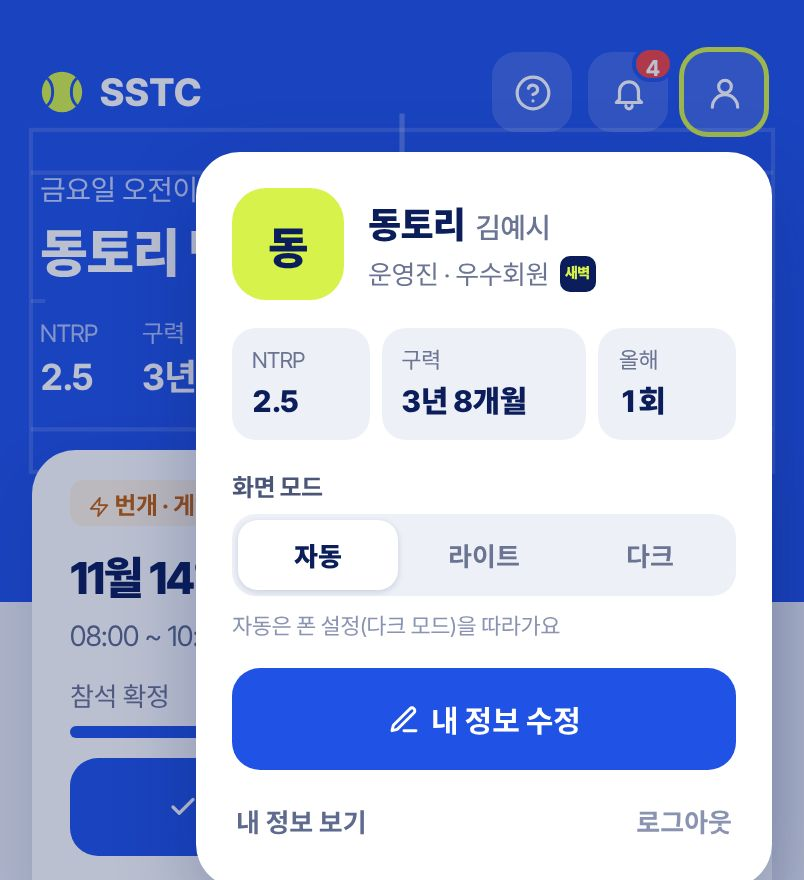
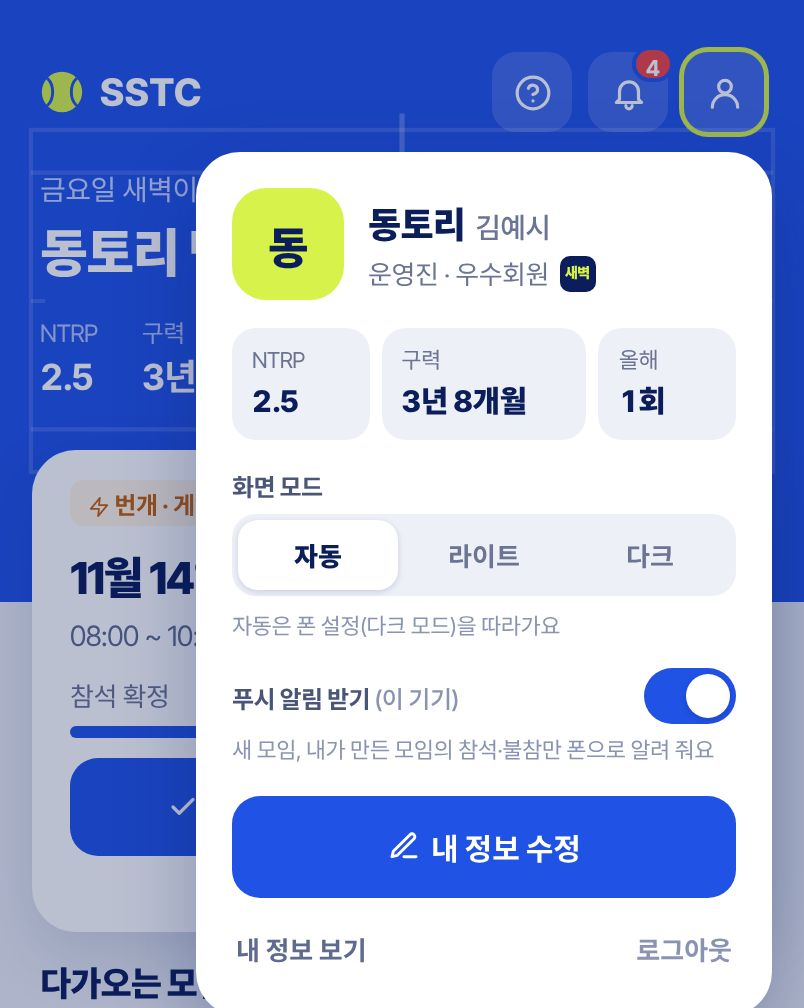
사용 안내: 푸시 알림 항목 추가 (아이폰만, 켜는 법·오는 알림 세 가지)
Claude-Session: https://claude.ai/code/session_01QoMkuW7Jf9apsEPmfcmyKN

diff --git a/index.html b/index.html
@@ -6,8 +6,8 @@
 <meta name="theme-color" content="#2152E6">
 <!-- 폰 브라우저의 "강제 다크 모드"가 색을 멋대로 뒤집지 않게 (앱이 직접 정한 색만 써요) -->
 <meta name="color-scheme" content="only light">
-<link rel="icon" type="image/png" sizes="32x32" href="icons/icon-32.png?v=d83856e702">
-<link rel="apple-touch-icon" sizes="180x180" href="icons/apple-touch-icon.png?v=d83856e702">
+<link rel="icon" type="image/png" sizes="32x32" href="icons/icon-32.png?v=270bcfd88a">
+<link rel="apple-touch-icon" sizes="180x180" href="icons/apple-touch-icon.png?v=270bcfd88a">
 <link rel="manifest" href="manifest.webmanifest">
 <link rel="preload" href="fonts/Fredoka.ttf" as="font" type="font/ttf" crossorigin>
 <meta name="apple-mobile-web-app-title" content="SSTC">
@@ -598,11 +598,11 @@ const inviteNotify=(info,id,uids)=>{const text=`${ME}님이 비공개 ${info.kin
 function PrivateLockSheet({meeting,onClose}){const info=meeting&&meeting.info||{},host=info.createdByUid,mt=isMT(meeting);const[asked,setAsked]=useState(false);return/*#__PURE__*/React.createElement("div",{onClick:onClose,style:__dk({position:"fixed",inset:0,background:"rgba(11,30,91,0.55)",zIndex:70,display:"flex",alignItems:"center",justifyContent:"center",padding:24,boxSizing:"border-box"})},/*#__PURE__*/React.createElement("div",{role:"dialog","aria-label":"\uBE44\uACF5\uAC1C \uBAA8\uC784",onClick:e=>e.stopPropagation(),style:__dk({width:"100%",maxWidth:360,background:"#fff",borderRadius:26,padding:"24px 20px 18px",textAlign:"center",fontFamily:FONT,boxShadow:"0 24px 60px rgba(11,30,91,0.35)"})},/*#__PURE__*/React.createElement("span",{style:__dk({width:60,height:60,borderRadius:18,background:INK,display:"inline-flex",alignItems:"center",justifyContent:"center"})},/*#__PURE__*/React.createElement(Icon,{name:"lock",size:28,color:BALL,stroke:2.2})),/*#__PURE__*/React.createElement("p",{style:__dk({margin:"14px 0 0",fontSize:19,fontWeight:900,color:INK})},"\uBE44\uACF5\uAC1C ",mt?"엠티":"번개","\uB77C \uBCFC \uC218 \uC5C6\uC5B4\uC694"),host&&/*#__PURE__*/React.createElement("div",{style:__dk({marginTop:12,display:"inline-flex",alignItems:"center",gap:8,background:"#F4F6FB",borderRadius:12,padding:"7px 12px 7px 7px"})},/*#__PURE__*/React.createElement(Avatar,{name:nickOf(host),photo:photoOf(host),size:28,radius:8,zoom:false}),/*#__PURE__*/React.createElement("span",{style:__dk({fontSize:14,fontWeight:700,color:INK})},nickOf(host)),/*#__PURE__*/React.createElement("span",{style:__dk({fontSize:12,color:"#6B7493"})},"\uB2D8\uC774 \uC5F0 \uBAA8\uC784")),/*#__PURE__*/React.createElement("p",{style:__dk({margin:"12px 0 0",fontSize:13.5,color:"#5E6A8E",lineHeight:1.65,wordBreak:"keep-all"})},"\uC774 \uBAA8\uC784\uC740 ",/*#__PURE__*/React.createElement("b",{style:__dk({color:INK})},"\uCD08\uB300\uBC1B\uC740 \uD68C\uC6D0"),"\uB9CC \uBCFC \uC218 \uC788\uC5B4\uC694.",/*#__PURE__*/React.createElement("br",null),"\uAC19\uC774 \uAC00\uACE0 \uC2F6\uC73C\uBA74 \uB9CC\uB4E0 \uC0AC\uB78C\uC5D0\uAC8C \uCD08\uB300\uB97C \uBD80\uD0C1\uD574 \uBCF4\uC138\uC694."),/*#__PURE__*/React.createElement("button",{type:"button",onClick:()=>{if(host&&myUid())postFeed({type:"meeting",meetingId:meeting.id,to:host,text:`${ME}님이 비공개 ${mt?"엠티":"번개"}(${shortDay(info.date)} ${info.place||""})에 초대를 부탁했어요. 모임에서 '초대 추가'로 넣을 수 있어요.`});setAsked(true);},disabled:asked,style:__dk({...btnPrimary,marginTop:16,opacity:asked?0.55:1})},asked?"초대 부탁을 보냈어요":"초대 부탁하기"),/*#__PURE__*/React.createElement("button",{type:"button",onClick:onClose,style:__dk({...btnGhostLock,marginTop:8})},"\uB2EB\uAE30")));}function GuildLockSheet({meeting,onClose}){const gs=meetGuilds(meeting&&meeting.info),g=gs[0],names=gs.map(x=>x.name).join("·");return/*#__PURE__*/React.createElement("div",{onClick:onClose,style:__dk({position:"fixed",inset:0,background:"rgba(11,30,91,0.55)",zIndex:70,display:"flex",alignItems:"center",justifyContent:"center",padding:24,boxSizing:"border-box"})},/*#__PURE__*/React.createElement("div",{role:"dialog","aria-label":"\uAE38\uB4DC \uBAA8\uC784",onClick:e=>e.stopPropagation(),style:__dk({width:"100%",maxWidth:360,background:"#fff",borderRadius:26,padding:"24px 20px 18px",textAlign:"center",fontFamily:FONT,boxShadow:"0 24px 60px rgba(11,30,91,0.35)"})},/*#__PURE__*/React.createElement("span",{style:__dk({width:60,height:60,borderRadius:18,background:BALL,display:"inline-flex",alignItems:"center",justifyContent:"center"})},/*#__PURE__*/React.createElement(Icon,{name:"lock",size:28,color:INK,stroke:2.2})),/*#__PURE__*/React.createElement("p",{style:__dk({margin:"14px 0 0",fontSize:19,fontWeight:900,color:INK})},"\uAE38\uB4DC \uBAA8\uC784\uC774\uB77C \uBCFC \uC218 \uC5C6\uC5B4\uC694"),gs.length>0&&/*#__PURE__*/React.createElement("div",{style:__dk({marginTop:12,display:"flex",flexDirection:"column",alignItems:"center",gap:8})},gs.map(x=>/*#__PURE__*/React.createElement(GuildTag,{key:x.id,g:x,size:30,font:16}))),/*#__PURE__*/React.createElement("p",{style:__dk({margin:"12px 0 0",fontSize:13.5,color:"#5E6A8E",lineHeight:1.65,wordBreak:"keep-all"})},"\uC774 \uBAA8\uC784\uC740 ",/*#__PURE__*/React.createElement("b",{style:__dk({color:INK})},g?names:"어느")," \uAE38\uB4DC\uC6D0\uB9CC \uBCFC \uC218 \uC788\uC5B4\uC694.",g&&/*#__PURE__*/React.createElement(React.Fragment,null,/*#__PURE__*/React.createElement("br",null),"\uAE38\uB4DC\uC5D0 \uAC00\uC785 \uC2E0\uCCAD\uD558\uBA74 ",gs.length>1?"길드장이":/*#__PURE__*/React.createElement(React.Fragment,null,"\uAE38\uB4DC\uC7A5 ",/*#__PURE__*/React.createElement("b",{style:__dk({color:INK})},nickOf(g.leader))," \uB2D8\uC774")," \uD655\uC778\uD574\uC694.")),gs.length===1&&/*#__PURE__*/React.createElement(GuildLockApply,{g:g,wide:true}),gs.length>1&&/*#__PURE__*/React.createElement("div",{style:__dk({marginTop:14,display:"flex",flexDirection:"column",gap:6,textAlign:"left"})},gs.map(x=>/*#__PURE__*/React.createElement("div",{key:x.id,style:__dk({display:"flex",alignItems:"center",gap:8,background:"#F4F6FB",borderRadius:12,padding:"8px 9px"})},/*#__PURE__*/React.createElement("span",{style:__dk({flex:1,minWidth:0})},/*#__PURE__*/React.createElement(GuildTag,{g:x,size:22,font:13.5})),/*#__PURE__*/React.createElement(GuildLockApply,{g:x})))),/*#__PURE__*/React.createElement("button",{type:"button",onClick:onClose,style:__dk({...(g?btnGhostLock:btnPrimary),marginTop:g?8:18})},g?"닫기":"확인")));}// ─── 새 버전 안내 ───────────────────────────────────────────────────────────────
 // 빌드할 때 BUILD_ID가 바뀌고 version.json에도 같이 써져요. 앱을 열 때와 다시 화면에 돌아올 때 version.json을 확인해서
 // 지금 열린 버전과 다르면 위쪽에 "새 버전이 있어요" 안내를 띄워요. (홈 화면에 추가한 앱은 새로고침 버튼이 없어서 필요)
-const BUILD_ID="d83856e702";function useNewVersion(){const[fresh,setFresh]=useState(false);useEffect(()=>{if(BUILD_ID==="dev"||typeof fetch==="undefined"||location.protocol==="file:")return;let last=0;const check=()=>{if(document.visibilityState==="hidden"||Date.now()-last<60000)return;last=Date.now();fetch("version.json?t="+Date.now(),{cache:"no-store"}).then(r=>r.ok?r.json():null).then(v=>{if(v&&v.build&&v.build!==BUILD_ID)setFresh(true);}).catch(()=>{});};check();document.addEventListener("visibilitychange",check);window.addEventListener("focus",check);return()=>{document.removeEventListener("visibilitychange",check);window.removeEventListener("focus",check);};},[]);return fresh;}// 업데이트: 주소에 ?v=를 바꿔 붙여서 저장된 예전 페이지 대신 새로 받아 오게 해요 (#meeting- 같은 주소 뒷부분은 유지)
+const BUILD_ID="270bcfd88a";function useNewVersion(){const[fresh,setFresh]=useState(false);useEffect(()=>{if(BUILD_ID==="dev"||typeof fetch==="undefined"||location.protocol==="file:")return;let last=0;const check=()=>{if(document.visibilityState==="hidden"||Date.now()-last<60000)return;last=Date.now();fetch("version.json?t="+Date.now(),{cache:"no-store"}).then(r=>r.ok?r.json():null).then(v=>{if(v&&v.build&&v.build!==BUILD_ID)setFresh(true);}).catch(()=>{});};check();document.addEventListener("visibilitychange",check);window.addEventListener("focus",check);return()=>{document.removeEventListener("visibilitychange",check);window.removeEventListener("focus",check);};},[]);return fresh;}// 업데이트: 주소에 ?v=를 바꿔 붙여서 저장된 예전 페이지 대신 새로 받아 오게 해요 (#meeting- 같은 주소 뒷부분은 유지)
 const reloadFresh=()=>{try{const u=new URL(location.href);u.searchParams.set("v",String(Date.now()));location.replace(u.toString());}catch(e){location.reload();}};function UpdateBanner(){const fresh=useNewVersion();const[hide,setHide]=useState(false);if(!fresh||hide)return null;return/*#__PURE__*/React.createElement("div",{role:"status",style:__dk({position:"fixed",top:"calc(10px + env(safe-area-inset-top,0px))",left:"50%",transform:"translateX(-50%)",width:"calc(100% - 24px)",maxWidth:416,zIndex:60,background:"#0B1E5B",color:"#fff",borderRadius:18,boxShadow:"0 10px 28px rgba(11,30,91,0.35)",padding:"12px 12px 12px 16px",display:"flex",alignItems:"center",gap:10,boxSizing:"border-box",fontFamily:FONT})},/*#__PURE__*/React.createElement("div",{style:__dk({flex:1,minWidth:0})},/*#__PURE__*/React.createElement("p",{style:__dk({margin:0,fontSize:14,fontWeight:700})},"\uC0C8 \uBC84\uC804\uC774 \uC788\uC5B4\uC694"),/*#__PURE__*/React.createElement("p",{style:__dk({margin:"2px 0 0",fontSize:12,opacity:0.8,lineHeight:1.4})},"\uC5C5\uB370\uC774\uD2B8\uB97C \uB20C\uB7EC \uC8FC\uC138\uC694. \uADF8\uB798\uB3C4 \uADF8\uB300\uB85C\uBA74 \uC571\uC744 \uC644\uC804\uD788 \uAED0\uB2E4\uAC00 \uB2E4\uC2DC \uC5F4\uC5B4 \uC8FC\uC138\uC694.")),/*#__PURE__*/React.createElement("button",{type:"button",onClick:reloadFresh,style:__dk({padding:"9px 14px",background:"#D7F24A",color:"#0B1E5B",border:"none",borderRadius:12,fontSize:13,fontWeight:700,cursor:"pointer",whiteSpace:"nowrap",fontFamily:FONT})},"\uC5C5\uB370\uC774\uD2B8"),/*#__PURE__*/React.createElement("button",{type:"button",onClick:()=>setHide(true),"aria-label":"\uC548\uB0B4 \uB2EB\uAE30",style:__dk({background:"none",border:"none",color:"#fff",opacity:0.7,padding:4,cursor:"pointer",display:"flex"})},/*#__PURE__*/React.createElement(Icon,{name:"x",size:16})));}// ─── 사용 안내 (우측 상단 물음표) ─────────────────────────────────────────────
 // 기능마다 실제 앱 화면을 잘라 둔 그림(help/<이름>.jpg)에 노란 테두리 + 번호, 아래엔 번호별 한 줄 설명.
 // marks: 그림 안 위치 [x, y, 너비, 높이] (그림 크기에 대한 %). 그림은 tools/help-shots 로 다시 찍을 수 있어요.
-/*HELP_DATA_START*/const HELP_VER="b27ae248";const HELP=[{"id":"home","title":"홈 화면","icon":"home","sub":"앱을 열면 처음 보이는 화면","go":"home","tip":"참석 예정 모임이 없으면 '모임 둘러보기'를 눌러 예약 탭으로 가요","blocks":[{"img":"home-1","w":402,"h":250,"marks":[[73.4,10.8,18.6,9.2],[8,65.2,84.1,22],[8,48.4,84.1,10.4]],"caps":["내가 참석할 가장 가까운 모임 (대기 중이면 주황)","여기서 바로 참석 · 불참","참석 인원 / 정원"]},{"img":"home-2","w":402,"h":197,"marks":[[3.2,23.4,46.3,70.1],[77.8,60.4,15.3,13.2],[79.4,5.6,16.4,13.7]],"caps":["옆으로 밀어서 다음 모임 보기","내 상태: ✓ 참석 예정 · 대기 n번 · 참석 가능","전체보기를 누르면 예약 탭으로"]},{"img":"home-3","w":402,"h":150,"marks":[[7.7,32,84.6,32.7]],"caps":["운영진 공지 · 누르면 펼쳐 보기 (중요 공지는 맨 위)"]}]},{"id":"booking","title":"모임 예약","icon":"calendar","sub":"모임 찾기, 새 모임, 새 댓글","go":"booking","tip":"달력 점 색: 정기 파랑 · 번개 게임 주황 · 번개 훈련 초록 · 엠티 보라","blocks":[{"img":"booking-1","w":402,"h":409,"marks":[[81.4,49.4,14.4,11.5],[59.2,8.8,35.8,9.5]],"caps":["점 찍힌 날을 누르면 그날 모임","목록 / 지도로 보기"]},{"img":"booking-2","w":402,"h":259,"marks":[[6.7,18.5,86.6,27],[64,7.3,29.3,13.5],[3.2,53.3,93.5,43.2]],"caps":["새 댓글 달린 모임 · 누르면 그 모임으로","새 댓글 표시 한꺼번에 지우기","오늘 새로 올라온 모임 (자정에 사라져요)"]},{"img":"booking-3","w":402,"h":323,"marks":[[4.2,4,91.5,14.2],[42.1,0.3,10.6,-14.1],[17.7,66.9,37,9]],"caps":["번개 / 정기 / 엠티 바꾸기 (꽉 차면 '대기 n')","새로 올라온 모임은 NEW","비공개 번개: 초대받은 회원만 보여요 (+ 새 모임은 아래 '모임 만들기')"]}]},{"id":"newmeet","title":"모임 만들기","icon":"plus","sub":"정기 · 번개 · 엠티, 공개 범위","go":"booking","tip":"코트비는 관리자가 등록한 코트면 날짜·시간에 맞춰 자동으로 채워져요","blocks":[{"img":"newmeet-1","w":402,"h":466,"marks":[[3.7,4.5,92,95.3],[3.7,27.8,92.5,10.3],[3.7,67.4,92.5,15.9]],"caps":["정기 · 번개 · 엠티 고르기","번개는 게임 / 훈련","초대한 회원만 → 비공개 번개 (고른 회원만 보고 참석)"]}]},{"id":"detail","title":"모임 상세","icon":"list","sub":"참석, 공유, 캘린더, 댓글은 여기서","tip":"정기 모임은 이번 달 참석이 적은 회원이 먼저 확정돼요","blocks":[{"img":"detail-1","w":402,"h":570,"marks":[[4.2,1.6,91.5,8.1],[10.9,61.6,78.1,8.4],[7.7,84,84.6,9.6]],"caps":["모임 정보 / 대진표 탭","코트비 · 1인 금액은 자동","참석 · 불참 (꽉 차면 대기 신청)"]},{"img":"detail-2","w":402,"h":343,"marks":[[7.7,2.6,84.6,46.9],[65.2,54.5,23.9,9.6],[3.2,82.8,39.6,14.6],[43.3,82.8,39.6,14.6]],"caps":["늦게 오거나 일찍 가면 체크","게스트 데려오기","단톡방에 공유","내 캘린더에 넣기 (아래 그림)"]},{"img":"detail-3","w":402,"h":511,"marks":[[18.2,24.3,74.1,5.4],[70.2,50.1,22.1,6.8],[3.2,88.4,93.5,9.8]],"caps":["@닉네임으로 부르면 알림","단톡에서 온다는 회원 대신 넣기","비 오면 무산 처리 (삭제 아님)"]},{"img":"detail-4","w":402,"h":377,"marks":[[3.7,36.8,92.5,20.2],[3.7,57.5,92.5,20.2]],"caps":["안드로이드: 삼성 캘린더 등 기본 캘린더에 추가","아이폰: 기본 캘린더에 추가 (뜨는 창에서 '추가')"]}]},{"id":"mt","title":"엠티 · 카풀","icon":"users","sub":"1박 이상 모임과 같이 타고 가기","tip":"엠티는 참석 횟수·랭킹에 세지 않아요","blocks":[{"img":"mt-1","w":402,"h":509,"marks":[[4.2,3.7,26,6.1],[10.9,75,78.1,8.6],[7.7,86.2,84.6,13.6]],"caps":["엠티 · 몇 박인지","시작 ~ 끝 날짜와 시간","인원은 게스트 포함 한 칸"]},{"img":"mt-2","w":402,"h":275,"marks":[[68.2,7.6,24,8.4],[7.7,227.2,84.6,-127.6],[7.7,72.4,84.6,27.3]],"caps":["차 몇 대 · 남은 자리","운전하는 차 (출발 위치·시간) · 누르면 타기 / 내리기","차가 필요하면 '태워 주세요'"]}]},{"id":"bracket","title":"대진표 · 스코어","icon":"ball","sub":"게임 편성과 점수 기록","tip":"6점 선승 · 5:5 무승부 · 참가자만 만들 수 있어요","blocks":[{"img":"bracket-1","w":402,"h":438,"marks":[[4.2,16.2,91.5,9.4],[7.7,63.7,84.6,24.2],[7.7,89.3,84.6,8.7]],"caps":["자동 편성 / 직접 작성","게임당 시간 고르기","코트 수 → 아래 '대진표 만들기'"]}]},{"id":"members","title":"회원","icon":"users","sub":"회원 찾기와 내 통계","go":"members","tip":"회원 사진을 누르면 크게 보여요","blocks":[{"img":"members-1","w":402,"h":342,"marks":[[5.2,13.7,89.6,12.9],[14.2,33.9,78.1,8.2],[4.2,47.1,91.5,10.8],[21.1,81.6,71.1,14.6]],"caps":["회원 목록 / 길드 / 통계","닉네임 · 본명 · 동네로 찾기","정렬 바꾸기","누르면 자세히 (손 · 코트 · 갈 모임)"]},{"img":"members-2","w":402,"h":444,"marks":[[4.2,11.9,16.1,19.6],[7.7,66.7,84.6,7]],"caps":["내 누적 참석과 최근 6개월","나와 평균 비교 (이번 달 나 · 회원 평균)"]},{"img":"members-3","w":402,"h":501,"marks":[[62.7,2.2,28.8,7],[7.7,73.3,84.6,9],[7.7,83.4,84.6,11.2]],"caps":["참여 랭킹: 이번 달 / 전체 (끝난 모임만 세요)","5위 아래는 더보기","내 순위 · 아래엔 코트별 통계"]}]},{"id":"guild","title":"길드","icon":"shield","sub":"마음 맞는 회원끼리 작은 모임","go":"guild","tip":"길드는 우수회원이 만들 수 있어요. 여러 길드에 들어가도 돼요","blocks":[{"img":"guild-1","w":402,"h":554,"marks":[[8,39,84.1,20.1],[16.9,67.1,26.5,16.6],[3.2,88.1,93.5,10.3]],"caps":["받은 초대 수락 · 거절 (아래 회원 탭 위에도 말풍선)","내 길드 · 누르면 길드원 · 모임 · 게시판","우수회원은 길드를 만들 수 있어요"]},{"img":"guild-2","w":402,"h":75,"marks":[[39.1,47.3,24.5,37.3]],"caps":["길드 모임은 그 길드원만 보고 참석해요"]}]},{"id":"diary","title":"훈련일기","icon":"book","sub":"잘된 점 · 고칠 점, 문제 칩, 자세 사진, 좋아요, 누적 리뷰","go":"diary","tip":"나만 보기로 쓴 일기는 나만 볼 수 있어요 (관리자도 못 봐요)","blocks":[{"img":"diary-1","w":402,"h":593,"marks":[[49.8,12.8,22.8,7.4],[4.2,22.3,31.4,6.6],[4.2,57,14.4,7.9],[3.2,88.9,93.5,9.6]],"caps":["회원 탭 → 훈련일기","모두의 일기 / 내 일기만","점 찍힌 날을 누르면 그날 일기 (공 색 점은 내 일기)","오늘 일기 쓰기 (지난 날은 달력에서 날짜를 눌러서)"]},{"img":"diary-2","w":402,"h":633,"marks":[[8.2,1.7,83.6,12],[8,21,84.1,78.8],[8.2,103.9,83.6,-4.1]],"caps":["레슨 · 게임 · 랠리 · 혼자 연습","잘된 점 · 고칠 점은 글로 편하게","지금 내 자세와 참고 자세 사진을 나란히"]},{"img":"diary-2b","w":402,"h":317,"marks":[[11.2,59.9,62.7,12],[50.1,83.9,16.8,12]],"caps":["내가 만든 칩을 눌러 붙여요 (숫자는 지금까지 붙인 횟수)","+ 새 칩: 기술(선택)과 문제를 직접 써서 만들어요 · 회원들이 쓰는 비슷한 칩도 보여 줘요"]},{"img":"diary-2c","w":402,"h":393,"marks":[[11.2,0.3,77.6,99.5],[13.9,42.5,72.1,12.2],[13.9,54.7,72.1,18.8]],"caps":["기술은 골라도 되고 안 골라도 돼요 (목록에 없으면 + 직접)","문제는 짧게 직접 써요 (12자까지)","회원들이 쓰는 비슷한 칩 · 누르면 같은 이름으로 써요 (같은 문제를 같은 이름으로 모아야 잘 세어져요)"]},{"img":"diary-3","w":402,"h":161,"marks":[[8.2,26.4,84.6,73],[3.7,0.6,92.5,98.8]],"caps":["전체 공개 / 나만 보기","코멘트를 받을지 (달리면 알림)"]},{"img":"diary-4","w":402,"h":270,"marks":[[7.7,4.1,42,82.7],[50.2,4.1,42,82.7]],"caps":["지금 내 자세 · 누르면 크게 보여요 (올릴 때 용량은 알아서 줄여요)","따라 할 참고 자세"]},{"img":"diary-4b","w":402,"h":188,"marks":[[7.7,46.9,84.6,17],[7.7,72.9,21.9,21.3],[82.3,72.9,10,21.3]],"caps":["붙인 문제 칩","좋아요 (다시 누르면 취소)","링크 복사 · 카톡 등으로 공유 (전체 공개 일기만)"]},{"img":"diary-4c","w":402,"h":250,"marks":[[18.2,19.2,74.1,37],[18.2,58.6,74.1,37]],"caps":["회원들이 남긴 조언","@닉네임으로 부르면 알림"]},{"img":"diary-5","w":402,"h":280,"marks":[[50.2,79.8,41.8,16.1],[8,79.8,41.8,16.1]],"caps":["쓴 고칠 점을 날짜순으로 모아 보기","누적 리뷰: 일기를 쓸 때마다 쌓여요"]},{"img":"diary-6","w":402,"h":428,"marks":[[3.2,2.6,36.9,11],[3.2,15,93.5,18.7],[3.2,61.6,93.5,35.9]],"caps":["전체 누적 / 월별 (월별은 지난달과 비교)","나에게 한마디 (리뷰 맨 아래에서 써요)","가장 많이 나온 문제 · 코멘트에서 많이 들은 말"]},{"img":"diary-6b","w":402,"h":423,"marks":[[7.7,15.2,84.6,7.1],[7.7,63.2,84.6,7.1]],"caps":["3번 이상 붙인 칩만 ‘반복’으로 보여 줘요 (한두 번은 접어 둬요)","회원들이 코멘트에서 많이 해 준 말 · 누르면 그 일기만"]},{"img":"diary-7","w":402,"h":314,"marks":[[20.1,22.5,72.1,22.4],[20.1,45.6,72.1,51]],"caps":["내가 쓴 고칠 점 (최근 순)","그 일기에 받은 코멘트가 바로 아래 쌓여요"]}]},{"id":"board","title":"소곤소곤","icon":"message","sub":"익명으로도 쓰는 게시판","go":"board","tip":"내 글은 고치거나 지울 수 있어요","blocks":[{"img":"board-1","w":402,"h":512,"marks":[[82.8,6.4,12.9,10.2],[14.2,20.7,78.1,5.5],[4.2,29.5,63.5,7.6],[3.2,43.8,93.5,24.5],[7.2,60.6,17.8,4.5]],"caps":["새 글 쓰기 (익명으로도)","글 내용으로 찾기","전체 · 내 글 · 익명 골라 보기","익명 글은 알림에도 이름이 안 남아요","내 글에 새 댓글 (아래 탭 위 말풍선에도 떠요)"]}]},{"id":"noti","title":"알림","icon":"bell","sub":"종 버튼에 모이는 소식","tip":"아래 탭의 빨간 +숫자는 그 탭에 새로 올라온 것이에요","blocks":[{"img":"noti-1","w":402,"h":406,"marks":[[3.7,15.6,92.5,22.6],[3.7,38.6,92.5,17.6],[3.7,56.7,92.5,22.6]],"caps":["내 모임에 누가 참석했을 때","내 글에 댓글이 달렸을 때","댓글에서 @로 불렸을 때 · 누르면 그 모임 · 글로"]}]},{"id":"me","title":"내 정보","icon":"user","sub":"사진, NTRP, 구력, 닉네임, 화면 모드","tip":"화면 모드는 이 폰에만 저장돼요. 닉네임은 한글 1~10자, 중복 확인 후 바꿀 수 있어요","blocks":[{"img":"me-1","w":402,"h":440,"marks":[[0.2,0.2,99.5,99.5],[28.1,75.2,64.2,13],[77.9,89.1,14.4,8.4]],"caps":["화면 모드: 자동(폰 설정) · 라이트 · 다크","사진 · NTRP · 구력 · 동네 고치기","로그아웃"]}]},{"id":"app","title":"앱처럼 쓰기","icon":"phone","sub":"홈 화면에 추가와 업데이트","tip":"'새 버전이 있어요'가 뜨면 업데이트를 누르고, 그래도 그대로면 앱을 완전히 껐다 켜 주세요","blocks":[],"tabs":[{"key":"ios-chrome","label":"크롬","blocks":[{"img":"app-chrome-1","w":600,"h":287,"marks":[[76.7,9.1,6.7,15.5]],"caps":["주소창 오른쪽 공유 버튼 누르기"]},{"img":"app-chrome-2","w":600,"h":554,"marks":[[74.1,63.3,17.4,25.5]],"caps":["'더 보기' 누르기"]},{"img":"app-chrome-3","w":600,"h":646,"marks":[[4.1,63.6,92,12.1]],"caps":["'홈 화면에 추가' 누르기"]},{"img":"app-chrome-4","w":600,"h":450,"marks":[[80,4.9,16.5,15.9]],"caps":["오른쪽 위 '추가' 누르면 끝"]}],"os":"ios"},{"key":"ios-safari","label":"사파리","blocks":[{"img":"app-safari-1","w":600,"h":404,"marks":[[22.4,71.3,12.2,15.2]],"caps":["주소창 왼쪽 ☰ 버튼 누르기"]},{"img":"app-safari-2","w":600,"h":372,"marks":[[26.1,29.5,52.2,17]],"caps":["'공유' 누르기"]},{"img":"app-safari-3","w":600,"h":404,"marks":[[4.1,76.6,92,19.4]],"caps":["'홈 화면에 추가' 누르기 (안 보이면 '더 보기')"]},{"img":"app-safari-4","w":600,"h":450,"marks":[[80,4.9,16.5,15.9]],"caps":["오른쪽 위 '추가' 누르면 끝"]}],"os":"ios"},{"key":"and-chrome","os":"android","label":"크롬","blocks":[{"img":"app-and-chrome-1","w":600,"h":358,"marks":[[88.3,1.8,8.1,16.4]],"caps":["오른쪽 위 ⋮ 누르기"]},{"img":"app-and-chrome-2","w":600,"h":585,"marks":[[30.9,39.4,63.9,10.6]],"caps":["'설치 및 바로가기 만들기' 누르기"]},{"img":"app-and-chrome-3","w":600,"h":338,"marks":[[6,30.4,88.1,29.6]],"caps":["'설치' 누르기"]},{"img":"app-and-chrome-4","w":600,"h":377,"marks":[[75.8,74.1,14.1,14.7]],"caps":["앱 설치 창에서 '설치' 누르기"]},{"img":"app-and-chrome-5","w":600,"h":292,"marks":[[34.1,22.7,31.4,24.4]],"caps":["'SSTC 설치 중…'이 뜨면 끝, 홈 화면에 아이콘이 생겨요"]}]},{"key":"and-samsung","os":"android","label":"삼성 인터넷(기본)","blocks":[{"img":"app-and-samsung-1","w":600,"h":377,"marks":[[79.1,3.4,7.6,12.4]],"caps":["주소창 오른쪽 ↓ 버튼 누르기"]},{"img":"app-and-samsung-2","w":600,"h":253,"marks":[[50.9,60.3,40.1,28.2]],"caps":["'추가' 누르기"]},{"img":"app-and-samsung-3","w":600,"h":221,"marks":[[16.3,42.6,67.7,35.3]],"caps":["'앱스에 추가했어요'가 뜨면 끝"]}]}]},{"id":"admin","title":"관리자 기능","icon":"gear","sub":"관리자에게만 보여요","go":"admin","admin":true,"tip":"홈의 '관리자 모드' 버튼으로 회원 화면을 확인할 수 있어요","blocks":[{"img":"admin-1","w":402,"h":722,"marks":[[4.2,10.2,91.5,12],[7.7,57.2,84.6,11.1],[7.7,67.5,84.6,11.1],[7.7,88,84.6,11.1]],"caps":["새 가입자 승인","앱 열 때 뜨는 안내 창","정회원 · 우수회원 · 탈퇴 관리","길드 관리 (아래에 코트비 · 홈 배너)"]}]}];/*HELP_DATA_END*/const helpImg=n=>`help/${n}.jpg?v=${HELP_VER}`;// 공유 링크: #help (목록) 또는 #help-<기능> 으로 열면 로그인 후 그 안내를 바로 열어요
+/*HELP_DATA_START*/const HELP_VER="6f78235b";const HELP=[{"id":"home","title":"홈 화면","icon":"home","sub":"앱을 열면 처음 보이는 화면","go":"home","tip":"참석 예정 모임이 없으면 '모임 둘러보기'를 눌러 예약 탭으로 가요","blocks":[{"img":"home-1","w":402,"h":250,"marks":[[73.4,10.8,18.6,9.2],[8,65.2,84.1,22],[8,48.4,84.1,10.4]],"caps":["내가 참석할 가장 가까운 모임 (대기 중이면 주황)","여기서 바로 참석 · 불참","참석 인원 / 정원"]},{"img":"home-2","w":402,"h":197,"marks":[[3.2,23.4,46.3,70.1],[77.8,60.4,15.3,13.2],[79.4,5.6,16.4,13.7]],"caps":["옆으로 밀어서 다음 모임 보기","내 상태: ✓ 참석 예정 · 대기 n번 · 참석 가능","전체보기를 누르면 예약 탭으로"]},{"img":"home-3","w":402,"h":150,"marks":[[7.7,32,84.6,32.7]],"caps":["운영진 공지 · 누르면 펼쳐 보기 (중요 공지는 맨 위)"]}]},{"id":"booking","title":"모임 예약","icon":"calendar","sub":"모임 찾기, 새 모임, 새 댓글","go":"booking","tip":"달력 점 색: 정기 파랑 · 번개 게임 주황 · 번개 훈련 초록 · 엠티 보라","blocks":[{"img":"booking-1","w":402,"h":409,"marks":[[81.4,49.4,14.4,11.5],[59.2,8.8,35.8,9.5]],"caps":["점 찍힌 날을 누르면 그날 모임","목록 / 지도로 보기"]},{"img":"booking-2","w":402,"h":259,"marks":[[6.7,18.5,86.6,27],[64,7.3,29.3,13.5],[3.2,53.3,93.5,43.2]],"caps":["새 댓글 달린 모임 · 누르면 그 모임으로","새 댓글 표시 한꺼번에 지우기","오늘 새로 올라온 모임 (자정에 사라져요)"]},{"img":"booking-3","w":402,"h":323,"marks":[[4.2,4,91.5,14.2],[42.1,0.3,10.6,-14.1],[17.7,66.9,37,9]],"caps":["번개 / 정기 / 엠티 바꾸기 (꽉 차면 '대기 n')","새로 올라온 모임은 NEW","비공개 번개: 초대받은 회원만 보여요 (+ 새 모임은 아래 '모임 만들기')"]}]},{"id":"newmeet","title":"모임 만들기","icon":"plus","sub":"정기 · 번개 · 엠티, 공개 범위","go":"booking","tip":"코트비는 관리자가 등록한 코트면 날짜·시간에 맞춰 자동으로 채워져요","blocks":[{"img":"newmeet-1","w":402,"h":466,"marks":[[3.7,4.5,92,95.3],[3.7,27.8,92.5,10.3],[3.7,67.4,92.5,15.9]],"caps":["정기 · 번개 · 엠티 고르기","번개는 게임 / 훈련","초대한 회원만 → 비공개 번개 (고른 회원만 보고 참석)"]}]},{"id":"detail","title":"모임 상세","icon":"list","sub":"참석, 공유, 캘린더, 댓글은 여기서","tip":"정기 모임은 이번 달 참석이 적은 회원이 먼저 확정돼요","blocks":[{"img":"detail-1","w":402,"h":570,"marks":[[4.2,1.6,91.5,8.1],[10.9,61.6,78.1,8.4],[7.7,84,84.6,9.6]],"caps":["모임 정보 / 대진표 탭","코트비 · 1인 금액은 자동","참석 · 불참 (꽉 차면 대기 신청)"]},{"img":"detail-2","w":402,"h":343,"marks":[[7.7,2.6,84.6,46.9],[65.2,54.5,23.9,9.6],[3.2,82.8,39.6,14.6],[43.3,82.8,39.6,14.6]],"caps":["늦게 오거나 일찍 가면 체크","게스트 데려오기","단톡방에 공유","내 캘린더에 넣기 (아래 그림)"]},{"img":"detail-3","w":402,"h":511,"marks":[[18.2,24.3,74.1,5.4],[70.2,50.1,22.1,6.8],[3.2,88.4,93.5,9.8]],"caps":["@닉네임으로 부르면 알림","단톡에서 온다는 회원 대신 넣기","비 오면 무산 처리 (삭제 아님)"]},{"img":"detail-4","w":402,"h":377,"marks":[[3.7,36.8,92.5,20.2],[3.7,57.5,92.5,20.2]],"caps":["안드로이드: 삼성 캘린더 등 기본 캘린더에 추가","아이폰: 기본 캘린더에 추가 (뜨는 창에서 '추가')"]}]},{"id":"mt","title":"엠티 · 카풀","icon":"users","sub":"1박 이상 모임과 같이 타고 가기","tip":"엠티는 참석 횟수·랭킹에 세지 않아요","blocks":[{"img":"mt-1","w":402,"h":509,"marks":[[4.2,3.7,26,6.1],[10.9,75,78.1,8.6],[7.7,86.2,84.6,13.6]],"caps":["엠티 · 몇 박인지","시작 ~ 끝 날짜와 시간","인원은 게스트 포함 한 칸"]},{"img":"mt-2","w":402,"h":275,"marks":[[68.2,7.6,24,8.4],[7.7,227.2,84.6,-127.6],[7.7,72.4,84.6,27.3]],"caps":["차 몇 대 · 남은 자리","운전하는 차 (출발 위치·시간) · 누르면 타기 / 내리기","차가 필요하면 '태워 주세요'"]}]},{"id":"bracket","title":"대진표 · 스코어","icon":"ball","sub":"게임 편성과 점수 기록","tip":"6점 선승 · 5:5 무승부 · 참가자만 만들 수 있어요","blocks":[{"img":"bracket-1","w":402,"h":438,"marks":[[4.2,16.2,91.5,9.4],[7.7,63.7,84.6,24.2],[7.7,89.3,84.6,8.7]],"caps":["자동 편성 / 직접 작성","게임당 시간 고르기","코트 수 → 아래 '대진표 만들기'"]}]},{"id":"members","title":"회원","icon":"users","sub":"회원 찾기와 내 통계","go":"members","tip":"회원 사진을 누르면 크게 보여요","blocks":[{"img":"members-1","w":402,"h":342,"marks":[[5.2,13.7,89.6,12.9],[14.2,33.9,78.1,8.2],[4.2,47.1,91.5,10.8],[21.1,81.6,71.1,14.6]],"caps":["회원 목록 / 길드 / 통계","닉네임 · 본명 · 동네로 찾기","정렬 바꾸기","누르면 자세히 (손 · 코트 · 갈 모임)"]},{"img":"members-2","w":402,"h":444,"marks":[[4.2,11.9,16.1,19.6],[7.7,66.7,84.6,7]],"caps":["내 누적 참석과 최근 6개월","나와 평균 비교 (이번 달 나 · 회원 평균)"]},{"img":"members-3","w":402,"h":501,"marks":[[62.7,2.2,28.8,7],[7.7,73.3,84.6,9],[7.7,83.4,84.6,11.2]],"caps":["참여 랭킹: 이번 달 / 전체 (끝난 모임만 세요)","5위 아래는 더보기","내 순위 · 아래엔 코트별 통계"]}]},{"id":"guild","title":"길드","icon":"shield","sub":"마음 맞는 회원끼리 작은 모임","go":"guild","tip":"길드는 우수회원이 만들 수 있어요. 여러 길드에 들어가도 돼요","blocks":[{"img":"guild-1","w":402,"h":554,"marks":[[8,39,84.1,20.1],[16.9,67.1,26.5,16.6],[3.2,88.1,93.5,10.3]],"caps":["받은 초대 수락 · 거절 (아래 회원 탭 위에도 말풍선)","내 길드 · 누르면 길드원 · 모임 · 게시판","우수회원은 길드를 만들 수 있어요"]},{"img":"guild-2","w":402,"h":75,"marks":[[39.1,47.3,24.5,37.3]],"caps":["길드 모임은 그 길드원만 보고 참석해요"]}]},{"id":"diary","title":"훈련일기","icon":"book","sub":"잘된 점 · 고칠 점, 문제 칩, 자세 사진, 좋아요, 누적 리뷰","go":"diary","tip":"나만 보기로 쓴 일기는 나만 볼 수 있어요 (관리자도 못 봐요)","blocks":[{"img":"diary-1","w":402,"h":593,"marks":[[49.8,12.8,22.8,7.4],[4.2,22.3,31.4,6.6],[4.2,57,14.4,7.9],[3.2,88.9,93.5,9.6]],"caps":["회원 탭 → 훈련일기","모두의 일기 / 내 일기만","점 찍힌 날을 누르면 그날 일기 (공 색 점은 내 일기)","오늘 일기 쓰기 (지난 날은 달력에서 날짜를 눌러서)"]},{"img":"diary-2","w":402,"h":633,"marks":[[8.2,1.7,83.6,12],[8,21,84.1,78.8],[8.2,103.9,83.6,-4.1]],"caps":["레슨 · 게임 · 랠리 · 혼자 연습","잘된 점 · 고칠 점은 글로 편하게","지금 내 자세와 참고 자세 사진을 나란히"]},{"img":"diary-2b","w":402,"h":317,"marks":[[11.2,59.9,62.7,12],[50.1,83.9,16.8,12]],"caps":["내가 만든 칩을 눌러 붙여요 (숫자는 지금까지 붙인 횟수)","+ 새 칩: 기술(선택)과 문제를 직접 써서 만들어요 · 회원들이 쓰는 비슷한 칩도 보여 줘요"]},{"img":"diary-2c","w":402,"h":393,"marks":[[11.2,0.3,77.6,99.5],[13.9,42.5,72.1,12.2],[13.9,54.7,72.1,18.8]],"caps":["기술은 골라도 되고 안 골라도 돼요 (목록에 없으면 + 직접)","문제는 짧게 직접 써요 (12자까지)","회원들이 쓰는 비슷한 칩 · 누르면 같은 이름으로 써요 (같은 문제를 같은 이름으로 모아야 잘 세어져요)"]},{"img":"diary-3","w":402,"h":161,"marks":[[8.2,26.4,84.6,73],[3.7,0.6,92.5,98.8]],"caps":["전체 공개 / 나만 보기","코멘트를 받을지 (달리면 알림)"]},{"img":"diary-4","w":402,"h":270,"marks":[[7.7,4.1,42,82.7],[50.2,4.1,42,82.7]],"caps":["지금 내 자세 · 누르면 크게 보여요 (올릴 때 용량은 알아서 줄여요)","따라 할 참고 자세"]},{"img":"diary-4b","w":402,"h":188,"marks":[[7.7,46.9,84.6,17],[7.7,72.9,21.9,21.3],[82.3,72.9,10,21.3]],"caps":["붙인 문제 칩","좋아요 (다시 누르면 취소)","링크 복사 · 카톡 등으로 공유 (전체 공개 일기만)"]},{"img":"diary-4c","w":402,"h":250,"marks":[[18.2,19.2,74.1,37],[18.2,58.6,74.1,37]],"caps":["회원들이 남긴 조언","@닉네임으로 부르면 알림"]},{"img":"diary-5","w":402,"h":280,"marks":[[50.2,79.8,41.8,16.1],[8,79.8,41.8,16.1]],"caps":["쓴 고칠 점을 날짜순으로 모아 보기","누적 리뷰: 일기를 쓸 때마다 쌓여요"]},{"img":"diary-6","w":402,"h":428,"marks":[[3.2,2.6,36.9,11],[3.2,15,93.5,18.7],[3.2,61.6,93.5,35.9]],"caps":["전체 누적 / 월별 (월별은 지난달과 비교)","나에게 한마디 (리뷰 맨 아래에서 써요)","가장 많이 나온 문제 · 코멘트에서 많이 들은 말"]},{"img":"diary-6b","w":402,"h":423,"marks":[[7.7,15.2,84.6,7.1],[7.7,63.2,84.6,7.1]],"caps":["3번 이상 붙인 칩만 ‘반복’으로 보여 줘요 (한두 번은 접어 둬요)","회원들이 코멘트에서 많이 해 준 말 · 누르면 그 일기만"]},{"img":"diary-7","w":402,"h":314,"marks":[[20.1,22.5,72.1,22.4],[20.1,45.6,72.1,51]],"caps":["내가 쓴 고칠 점 (최근 순)","그 일기에 받은 코멘트가 바로 아래 쌓여요"]}]},{"id":"board","title":"소곤소곤","icon":"message","sub":"익명으로도 쓰는 게시판","go":"board","tip":"내 글은 고치거나 지울 수 있어요","blocks":[{"img":"board-1","w":402,"h":512,"marks":[[82.8,6.4,12.9,10.2],[14.2,20.7,78.1,5.5],[4.2,29.5,63.5,7.6],[3.2,43.8,93.5,24.5],[7.2,60.6,17.8,4.5]],"caps":["새 글 쓰기 (익명으로도)","글 내용으로 찾기","전체 · 내 글 · 익명 골라 보기","익명 글은 알림에도 이름이 안 남아요","내 글에 새 댓글 (아래 탭 위 말풍선에도 떠요)"]}]},{"id":"noti","title":"알림","icon":"bell","sub":"종 버튼에 모이는 소식","tip":"아래 탭의 빨간 +숫자는 그 탭에 새로 올라온 것이에요","blocks":[{"img":"noti-1","w":402,"h":406,"marks":[[3.7,15.6,92.5,22.6],[3.7,38.6,92.5,17.6],[3.7,56.7,92.5,22.6]],"caps":["내 모임에 누가 참석했을 때","내 글에 댓글이 달렸을 때","댓글에서 @로 불렸을 때 · 누르면 그 모임 · 글로"]}]},{"id":"me","title":"내 정보","icon":"user","sub":"사진, NTRP, 구력, 닉네임, 화면 모드","tip":"화면 모드는 이 폰에만 저장돼요. 닉네임은 한글 1~10자, 중복 확인 후 바꿀 수 있어요","blocks":[{"img":"me-1","w":402,"h":504,"marks":[[0.2,0.2,99.5,99.6],[28.1,78.3,64.2,11.3],[77.9,90.4,14.4,7.3]],"caps":["화면 모드: 자동(폰 설정) · 라이트 · 다크","사진 · NTRP · 구력 · 동네 고치기","로그아웃"]}]},{"id":"push","title":"푸시 알림","icon":"bell","sub":"새 모임 · 참석 · 불참을 폰으로","tip":"지금은 아이폰만 돼요 (홈 화면에 추가한 SSTC 앱, iOS 16.4 이상). 안드로이드는 아직 안 돼요","blocks":[{"img":"push-1","w":402,"h":284,"marks":[[79.4,39.1,12.9,12]],"caps":["오른쪽 위 내 정보 → '푸시 알림 받기' 켜기 → 뜨는 창에서 '허용'"]},{"caps":["새 모임이 올라오면 (그 모임을 볼 수 있는 회원에게)","내가 만든 모임에 누가 참석 · 불참을 누르면","알림을 누르면 그 모임이 바로 열려요","폰마다 따로 켜요 · 로그아웃하면 그 폰은 꺼져요 · 나머지 알림은 앱 안 종에서 봐요"]}]},{"id":"app","title":"앱처럼 쓰기","icon":"phone","sub":"홈 화면에 추가와 업데이트","tip":"'새 버전이 있어요'가 뜨면 업데이트를 누르고, 그래도 그대로면 앱을 완전히 껐다 켜 주세요","blocks":[],"tabs":[{"key":"ios-chrome","label":"크롬","blocks":[{"img":"app-chrome-1","w":600,"h":287,"marks":[[76.7,9.1,6.7,15.5]],"caps":["주소창 오른쪽 공유 버튼 누르기"]},{"img":"app-chrome-2","w":600,"h":554,"marks":[[74.1,63.3,17.4,25.5]],"caps":["'더 보기' 누르기"]},{"img":"app-chrome-3","w":600,"h":646,"marks":[[4.1,63.6,92,12.1]],"caps":["'홈 화면에 추가' 누르기"]},{"img":"app-chrome-4","w":600,"h":450,"marks":[[80,4.9,16.5,15.9]],"caps":["오른쪽 위 '추가' 누르면 끝"]}],"os":"ios"},{"key":"ios-safari","label":"사파리","blocks":[{"img":"app-safari-1","w":600,"h":404,"marks":[[22.4,71.3,12.2,15.2]],"caps":["주소창 왼쪽 ☰ 버튼 누르기"]},{"img":"app-safari-2","w":600,"h":372,"marks":[[26.1,29.5,52.2,17]],"caps":["'공유' 누르기"]},{"img":"app-safari-3","w":600,"h":404,"marks":[[4.1,76.6,92,19.4]],"caps":["'홈 화면에 추가' 누르기 (안 보이면 '더 보기')"]},{"img":"app-safari-4","w":600,"h":450,"marks":[[80,4.9,16.5,15.9]],"caps":["오른쪽 위 '추가' 누르면 끝"]}],"os":"ios"},{"key":"and-chrome","os":"android","label":"크롬","blocks":[{"img":"app-and-chrome-1","w":600,"h":358,"marks":[[88.3,1.8,8.1,16.4]],"caps":["오른쪽 위 ⋮ 누르기"]},{"img":"app-and-chrome-2","w":600,"h":585,"marks":[[30.9,39.4,63.9,10.6]],"caps":["'설치 및 바로가기 만들기' 누르기"]},{"img":"app-and-chrome-3","w":600,"h":338,"marks":[[6,30.4,88.1,29.6]],"caps":["'설치' 누르기"]},{"img":"app-and-chrome-4","w":600,"h":377,"marks":[[75.8,74.1,14.1,14.7]],"caps":["앱 설치 창에서 '설치' 누르기"]},{"img":"app-and-chrome-5","w":600,"h":292,"marks":[[34.1,22.7,31.4,24.4]],"caps":["'SSTC 설치 중…'이 뜨면 끝, 홈 화면에 아이콘이 생겨요"]}]},{"key":"and-samsung","os":"android","label":"삼성 인터넷(기본)","blocks":[{"img":"app-and-samsung-1","w":600,"h":377,"marks":[[79.1,3.4,7.6,12.4]],"caps":["주소창 오른쪽 ↓ 버튼 누르기"]},{"img":"app-and-samsung-2","w":600,"h":253,"marks":[[50.9,60.3,40.1,28.2]],"caps":["'추가' 누르기"]},{"img":"app-and-samsung-3","w":600,"h":221,"marks":[[16.3,42.6,67.7,35.3]],"caps":["'앱스에 추가했어요'가 뜨면 끝"]}]}]},{"id":"admin","title":"관리자 기능","icon":"gear","sub":"관리자에게만 보여요","go":"admin","admin":true,"tip":"홈의 '관리자 모드' 버튼으로 회원 화면을 확인할 수 있어요","blocks":[{"img":"admin-1","w":402,"h":722,"marks":[[4.2,10.2,91.5,12],[7.7,57.2,84.6,11.1],[7.7,67.5,84.6,11.1],[7.7,88,84.6,11.1]],"caps":["새 가입자 승인","앱 열 때 뜨는 안내 창","정회원 · 우수회원 · 탈퇴 관리","길드 관리 (아래에 코트비 · 홈 배너)"]}]}];/*HELP_DATA_END*/const helpImg=n=>`help/${n}.jpg?v=${HELP_VER}`;// 공유 링크: #help (목록) 또는 #help-<기능> 으로 열면 로그인 후 그 안내를 바로 열어요
 const HELP_LINK={id:null};const readHelpHash=()=>{try{const mm=/^#help(?:-([a-z]+))?$/.exec(location.hash);if(!mm)return false;HELP_LINK.id=mm[1]||"";history.replaceState(history.state,"",location.pathname+location.search);return true;}catch(e){return false;}};readHelpHash();// 글 공유 링크: 훈련일기 #diary-<id>, 소곤소곤 #post-<id>, 공지 #notice-<id>, 길드 게시판 #gpost-<길드>.<글> (로그인 후 그 글을 바로 열어요)
 // 링크엔 글 번호만 들어가요 (익명 글도 글쓴이가 드러나지 않아요)
 const GUILD_POST_LINK={gid:null,pid:null};const SHARE_LINK={kind:null,id:null};const readShareHash=()=>{try{const mm=/^#(diary|post|notice|gpost)-([\w.-]+)$/.exec(location.hash);if(!mm)return false;SHARE_LINK.kind=mm[1];SHARE_LINK.id=mm[2];history.replaceState(history.state,"",location.pathname+location.search);return true;}catch(e){return false;}};readShareHash();const shareUrl=(kind,id)=>location.origin+location.pathname+"#"+kind+"-"+id;// 아래쪽에 잠깐 떴다 사라지는 안내 ("링크가 복사되었습니다")

diff --git a/src/app.jsx b/src/app.jsx
@@ -6385,7 +6385,7 @@ function UpdateBanner(){
 // 기능마다 실제 앱 화면을 잘라 둔 그림(help/<이름>.jpg)에 노란 테두리 + 번호, 아래엔 번호별 한 줄 설명.
 // marks: 그림 안 위치 [x, y, 너비, 높이] (그림 크기에 대한 %). 그림은 tools/help-shots 로 다시 찍을 수 있어요.
 /*HELP_DATA_START*/
-const HELP_VER="b27ae248";
+const HELP_VER="6f78235b";
 const HELP=[
   {"id":"home","title":"홈 화면","icon":"home","sub":"앱을 열면 처음 보이는 화면","go":"home","tip":"참석 예정 모임이 없으면 '모임 둘러보기'를 눌러 예약 탭으로 가요","blocks":[{"img":"home-1","w":402,"h":250,"marks":[[73.4,10.8,18.6,9.2],[8,65.2,84.1,22],[8,48.4,84.1,10.4]],"caps":["내가 참석할 가장 가까운 모임 (대기 중이면 주황)","여기서 바로 참석 · 불참","참석 인원 / 정원"]},{"img":"home-2","w":402,"h":197,"marks":[[3.2,23.4,46.3,70.1],[77.8,60.4,15.3,13.2],[79.4,5.6,16.4,13.7]],"caps":["옆으로 밀어서 다음 모임 보기","내 상태: ✓ 참석 예정 · 대기 n번 · 참석 가능","전체보기를 누르면 예약 탭으로"]},{"img":"home-3","w":402,"h":150,"marks":[[7.7,32,84.6,32.7]],"caps":["운영진 공지 · 누르면 펼쳐 보기 (중요 공지는 맨 위)"]}]},
   {"id":"booking","title":"모임 예약","icon":"calendar","sub":"모임 찾기, 새 모임, 새 댓글","go":"booking","tip":"달력 점 색: 정기 파랑 · 번개 게임 주황 · 번개 훈련 초록 · 엠티 보라","blocks":[{"img":"booking-1","w":402,"h":409,"marks":[[81.4,49.4,14.4,11.5],[59.2,8.8,35.8,9.5]],"caps":["점 찍힌 날을 누르면 그날 모임","목록 / 지도로 보기"]},{"img":"booking-2","w":402,"h":259,"marks":[[6.7,18.5,86.6,27],[64,7.3,29.3,13.5],[3.2,53.3,93.5,43.2]],"caps":["새 댓글 달린 모임 · 누르면 그 모임으로","새 댓글 표시 한꺼번에 지우기","오늘 새로 올라온 모임 (자정에 사라져요)"]},{"img":"booking-3","w":402,"h":323,"marks":[[4.2,4,91.5,14.2],[42.1,0.3,10.6,-14.1],[17.7,66.9,37,9]],"caps":["번개 / 정기 / 엠티 바꾸기 (꽉 차면 '대기 n')","새로 올라온 모임은 NEW","비공개 번개: 초대받은 회원만 보여요 (+ 새 모임은 아래 '모임 만들기')"]}]},
@@ -6398,7 +6398,8 @@ const HELP=[
   {"id":"diary","title":"훈련일기","icon":"book","sub":"잘된 점 · 고칠 점, 문제 칩, 자세 사진, 좋아요, 누적 리뷰","go":"diary","tip":"나만 보기로 쓴 일기는 나만 볼 수 있어요 (관리자도 못 봐요)","blocks":[{"img":"diary-1","w":402,"h":593,"marks":[[49.8,12.8,22.8,7.4],[4.2,22.3,31.4,6.6],[4.2,57,14.4,7.9],[3.2,88.9,93.5,9.6]],"caps":["회원 탭 → 훈련일기","모두의 일기 / 내 일기만","점 찍힌 날을 누르면 그날 일기 (공 색 점은 내 일기)","오늘 일기 쓰기 (지난 날은 달력에서 날짜를 눌러서)"]},{"img":"diary-2","w":402,"h":633,"marks":[[8.2,1.7,83.6,12],[8,21,84.1,78.8],[8.2,103.9,83.6,-4.1]],"caps":["레슨 · 게임 · 랠리 · 혼자 연습","잘된 점 · 고칠 점은 글로 편하게","지금 내 자세와 참고 자세 사진을 나란히"]},{"img":"diary-2b","w":402,"h":317,"marks":[[11.2,59.9,62.7,12],[50.1,83.9,16.8,12]],"caps":["내가 만든 칩을 눌러 붙여요 (숫자는 지금까지 붙인 횟수)","+ 새 칩: 기술(선택)과 문제를 직접 써서 만들어요 · 회원들이 쓰는 비슷한 칩도 보여 줘요"]},{"img":"diary-2c","w":402,"h":393,"marks":[[11.2,0.3,77.6,99.5],[13.9,42.5,72.1,12.2],[13.9,54.7,72.1,18.8]],"caps":["기술은 골라도 되고 안 골라도 돼요 (목록에 없으면 + 직접)","문제는 짧게 직접 써요 (12자까지)","회원들이 쓰는 비슷한 칩 · 누르면 같은 이름으로 써요 (같은 문제를 같은 이름으로 모아야 잘 세어져요)"]},{"img":"diary-3","w":402,"h":161,"marks":[[8.2,26.4,84.6,73],[3.7,0.6,92.5,98.8]],"caps":["전체 공개 / 나만 보기","코멘트를 받을지 (달리면 알림)"]},{"img":"diary-4","w":402,"h":270,"marks":[[7.7,4.1,42,82.7],[50.2,4.1,42,82.7]],"caps":["지금 내 자세 · 누르면 크게 보여요 (올릴 때 용량은 알아서 줄여요)","따라 할 참고 자세"]},{"img":"diary-4b","w":402,"h":188,"marks":[[7.7,46.9,84.6,17],[7.7,72.9,21.9,21.3],[82.3,72.9,10,21.3]],"caps":["붙인 문제 칩","좋아요 (다시 누르면 취소)","링크 복사 · 카톡 등으로 공유 (전체 공개 일기만)"]},{"img":"diary-4c","w":402,"h":250,"marks":[[18.2,19.2,74.1,37],[18.2,58.6,74.1,37]],"caps":["회원들이 남긴 조언","@닉네임으로 부르면 알림"]},{"img":"diary-5","w":402,"h":280,"marks":[[50.2,79.8,41.8,16.1],[8,79.8,41.8,16.1]],"caps":["쓴 고칠 점을 날짜순으로 모아 보기","누적 리뷰: 일기를 쓸 때마다 쌓여요"]},{"img":"diary-6","w":402,"h":428,"marks":[[3.2,2.6,36.9,11],[3.2,15,93.5,18.7],[3.2,61.6,93.5,35.9]],"caps":["전체 누적 / 월별 (월별은 지난달과 비교)","나에게 한마디 (리뷰 맨 아래에서 써요)","가장 많이 나온 문제 · 코멘트에서 많이 들은 말"]},{"img":"diary-6b","w":402,"h":423,"marks":[[7.7,15.2,84.6,7.1],[7.7,63.2,84.6,7.1]],"caps":["3번 이상 붙인 칩만 ‘반복’으로 보여 줘요 (한두 번은 접어 둬요)","회원들이 코멘트에서 많이 해 준 말 · 누르면 그 일기만"]},{"img":"diary-7","w":402,"h":314,"marks":[[20.1,22.5,72.1,22.4],[20.1,45.6,72.1,51]],"caps":["내가 쓴 고칠 점 (최근 순)","그 일기에 받은 코멘트가 바로 아래 쌓여요"]}]},
   {"id":"board","title":"소곤소곤","icon":"message","sub":"익명으로도 쓰는 게시판","go":"board","tip":"내 글은 고치거나 지울 수 있어요","blocks":[{"img":"board-1","w":402,"h":512,"marks":[[82.8,6.4,12.9,10.2],[14.2,20.7,78.1,5.5],[4.2,29.5,63.5,7.6],[3.2,43.8,93.5,24.5],[7.2,60.6,17.8,4.5]],"caps":["새 글 쓰기 (익명으로도)","글 내용으로 찾기","전체 · 내 글 · 익명 골라 보기","익명 글은 알림에도 이름이 안 남아요","내 글에 새 댓글 (아래 탭 위 말풍선에도 떠요)"]}]},
   {"id":"noti","title":"알림","icon":"bell","sub":"종 버튼에 모이는 소식","tip":"아래 탭의 빨간 +숫자는 그 탭에 새로 올라온 것이에요","blocks":[{"img":"noti-1","w":402,"h":406,"marks":[[3.7,15.6,92.5,22.6],[3.7,38.6,92.5,17.6],[3.7,56.7,92.5,22.6]],"caps":["내 모임에 누가 참석했을 때","내 글에 댓글이 달렸을 때","댓글에서 @로 불렸을 때 · 누르면 그 모임 · 글로"]}]},
-  {"id":"me","title":"내 정보","icon":"user","sub":"사진, NTRP, 구력, 닉네임, 화면 모드","tip":"화면 모드는 이 폰에만 저장돼요. 닉네임은 한글 1~10자, 중복 확인 후 바꿀 수 있어요","blocks":[{"img":"me-1","w":402,"h":440,"marks":[[0.2,0.2,99.5,99.5],[28.1,75.2,64.2,13],[77.9,89.1,14.4,8.4]],"caps":["화면 모드: 자동(폰 설정) · 라이트 · 다크","사진 · NTRP · 구력 · 동네 고치기","로그아웃"]}]},
+  {"id":"me","title":"내 정보","icon":"user","sub":"사진, NTRP, 구력, 닉네임, 화면 모드","tip":"화면 모드는 이 폰에만 저장돼요. 닉네임은 한글 1~10자, 중복 확인 후 바꿀 수 있어요","blocks":[{"img":"me-1","w":402,"h":504,"marks":[[0.2,0.2,99.5,99.6],[28.1,78.3,64.2,11.3],[77.9,90.4,14.4,7.3]],"caps":["화면 모드: 자동(폰 설정) · 라이트 · 다크","사진 · NTRP · 구력 · 동네 고치기","로그아웃"]}]},
+  {"id":"push","title":"푸시 알림","icon":"bell","sub":"새 모임 · 참석 · 불참을 폰으로","tip":"지금은 아이폰만 돼요 (홈 화면에 추가한 SSTC 앱, iOS 16.4 이상). 안드로이드는 아직 안 돼요","blocks":[{"img":"push-1","w":402,"h":284,"marks":[[79.4,39.1,12.9,12]],"caps":["오른쪽 위 내 정보 → '푸시 알림 받기' 켜기 → 뜨는 창에서 '허용'"]},{"caps":["새 모임이 올라오면 (그 모임을 볼 수 있는 회원에게)","내가 만든 모임에 누가 참석 · 불참을 누르면","알림을 누르면 그 모임이 바로 열려요","폰마다 따로 켜요 · 로그아웃하면 그 폰은 꺼져요 · 나머지 알림은 앱 안 종에서 봐요"]}]},
   {"id":"app","title":"앱처럼 쓰기","icon":"phone","sub":"홈 화면에 추가와 업데이트","tip":"'새 버전이 있어요'가 뜨면 업데이트를 누르고, 그래도 그대로면 앱을 완전히 껐다 켜 주세요","blocks":[],"tabs":[{"key":"ios-chrome","label":"크롬","blocks":[{"img":"app-chrome-1","w":600,"h":287,"marks":[[76.7,9.1,6.7,15.5]],"caps":["주소창 오른쪽 공유 버튼 누르기"]},{"img":"app-chrome-2","w":600,"h":554,"marks":[[74.1,63.3,17.4,25.5]],"caps":["'더 보기' 누르기"]},{"img":"app-chrome-3","w":600,"h":646,"marks":[[4.1,63.6,92,12.1]],"caps":["'홈 화면에 추가' 누르기"]},{"img":"app-chrome-4","w":600,"h":450,"marks":[[80,4.9,16.5,15.9]],"caps":["오른쪽 위 '추가' 누르면 끝"]}],"os":"ios"},{"key":"ios-safari","label":"사파리","blocks":[{"img":"app-safari-1","w":600,"h":404,"marks":[[22.4,71.3,12.2,15.2]],"caps":["주소창 왼쪽 ☰ 버튼 누르기"]},{"img":"app-safari-2","w":600,"h":372,"marks":[[26.1,29.5,52.2,17]],"caps":["'공유' 누르기"]},{"img":"app-safari-3","w":600,"h":404,"marks":[[4.1,76.6,92,19.4]],"caps":["'홈 화면에 추가' 누르기 (안 보이면 '더 보기')"]},{"img":"app-safari-4","w":600,"h":450,"marks":[[80,4.9,16.5,15.9]],"caps":["오른쪽 위 '추가' 누르면 끝"]}],"os":"ios"},{"key":"and-chrome","os":"android","label":"크롬","blocks":[{"img":"app-and-chrome-1","w":600,"h":358,"marks":[[88.3,1.8,8.1,16.4]],"caps":["오른쪽 위 ⋮ 누르기"]},{"img":"app-and-chrome-2","w":600,"h":585,"marks":[[30.9,39.4,63.9,10.6]],"caps":["'설치 및 바로가기 만들기' 누르기"]},{"img":"app-and-chrome-3","w":600,"h":338,"marks":[[6,30.4,88.1,29.6]],"caps":["'설치' 누르기"]},{"img":"app-and-chrome-4","w":600,"h":377,"marks":[[75.8,74.1,14.1,14.7]],"caps":["앱 설치 창에서 '설치' 누르기"]},{"img":"app-and-chrome-5","w":600,"h":292,"marks":[[34.1,22.7,31.4,24.4]],"caps":["'SSTC 설치 중…'이 뜨면 끝, 홈 화면에 아이콘이 생겨요"]}]},{"key":"and-samsung","os":"android","label":"삼성 인터넷(기본)","blocks":[{"img":"app-and-samsung-1","w":600,"h":377,"marks":[[79.1,3.4,7.6,12.4]],"caps":["주소창 오른쪽 ↓ 버튼 누르기"]},{"img":"app-and-samsung-2","w":600,"h":253,"marks":[[50.9,60.3,40.1,28.2]],"caps":["'추가' 누르기"]},{"img":"app-and-samsung-3","w":600,"h":221,"marks":[[16.3,42.6,67.7,35.3]],"caps":["'앱스에 추가했어요'가 뜨면 끝"]}]}]},
   {"id":"admin","title":"관리자 기능","icon":"gear","sub":"관리자에게만 보여요","go":"admin","admin":true,"tip":"홈의 '관리자 모드' 버튼으로 회원 화면을 확인할 수 있어요","blocks":[{"img":"admin-1","w":402,"h":722,"marks":[[4.2,10.2,91.5,12],[7.7,57.2,84.6,11.1],[7.7,67.5,84.6,11.1],[7.7,88,84.6,11.1]],"caps":["새 가입자 승인","앱 열 때 뜨는 안내 창","정회원 · 우수회원 · 탈퇴 관리","길드 관리 (아래에 코트비 · 홈 배너)"]}]}
 ];

diff --git a/tools/help-shots/shots.js b/tools/help-shots/shots.js
@@ -113,6 +113,10 @@ const HELP=[
  {id:"me",title:"내 정보",icon:"user",sub:"사진, NTRP, 구력, 닉네임, 화면 모드",tip:"화면 모드는 이 폰에만 저장돼요. 닉네임은 한글 1~10자, 중복 확인 후 바꿀 수 있어요",blocks:[
    {img:"me-1",prep:steps(async p=>{await p.keyboard.press('Escape');await p.goto(p.url());await p.waitForTimeout(1500);const b=p.getByText('시작하기');if(await b.count())await b.first().click();await p.waitForTimeout(1200);await p.getByRole('button',{name:'내 정보 메뉴'}).click();await p.waitForTimeout(600);}),crop:[[0],["로그아웃",0,0,"button"]],cropPad:[0,14],marks:[["화면 모드",1,0,"div"],["내 정보 수정",0,1,"button"],["로그아웃",0,0,"button"]],
     caps:["화면 모드: 자동(폰 설정) · 라이트 · 다크","사진 · NTRP · 구력 · 동네 고치기","로그아웃"]}]},
+ {id:"push",title:"푸시 알림",icon:"bell",sub:"새 모임 · 참석 · 불참을 폰으로",tip:"지금은 아이폰만 돼요 (홈 화면에 추가한 SSTC 앱, iOS 16.4 이상). 안드로이드는 아직 안 돼요",blocks:[
+   {img:"push-1",prep:steps(async p=>{await p.keyboard.press('Escape');await p.goto(p.url());await p.waitForTimeout(1500);const b=p.getByText('시작하기');if(await b.count())await b.first().click();await p.waitForTimeout(1200);await p.getByRole('button',{name:'내 정보 메뉴'}).click();await p.waitForTimeout(600);}),crop:[["화면 모드",0,0,"p"],["로그아웃",0,0,"button"]],cropPad:[14,14],marks:[["푸시 알림 받기",0,0,"button"]],
+    caps:["오른쪽 위 내 정보 → '푸시 알림 받기' 켜기 → 뜨는 창에서 '허용'"]},
+   {caps:["새 모임이 올라오면 (그 모임을 볼 수 있는 회원에게)","내가 만든 모임에 누가 참석 · 불참을 누르면","알림을 누르면 그 모임이 바로 열려요","폰마다 따로 켜요 · 로그아웃하면 그 폰은 꺼져요 · 나머지 알림은 앱 안 종에서 봐요"]}]},
  {id:"app",title:"앱처럼 쓰기",icon:"phone",sub:"홈 화면에 추가와 업데이트",tip:"'새 버전이 있어요'가 뜨면 업데이트를 누르고, 그래도 그대로면 앱을 완전히 껐다 켜 주세요",blocks:[],
   // 휴대폰·브라우저별 단계 (그림은 실제 휴대폰 캡처를 잘라 help/app-*.jpg로 둠, 찍지 않고 그대로 씀)
   tabs:[{"key":"ios-chrome","label":"크롬","blocks":[{"img":"app-chrome-1","w":600,"h":287,"marks":[[76.7,9.1,6.7,15.5]],"caps":["주소창 오른쪽 공유 버튼 누르기"]},{"img":"app-chrome-2","w":600,"h":554,"marks":[[74.1,63.3,17.4,25.5]],"caps":["'더 보기' 누르기"]},{"img":"app-chrome-3","w":600,"h":646,"marks":[[4.1,63.6,92.0,12.1]],"caps":["'홈 화면에 추가' 누르기"]},{"img":"app-chrome-4","w":600,"h":450,"marks":[[80.0,4.9,16.5,15.9]],"caps":["오른쪽 위 '추가' 누르면 끝"]}],"os":"ios"},{"key":"ios-safari","label":"사파리","blocks":[{"img":"app-safari-1","w":600,"h":404,"marks":[[22.4,71.3,12.2,15.2]],"caps":["주소창 왼쪽 ☰ 버튼 누르기"]},{"img":"app-safari-2","w":600,"h":372,"marks":[[26.1,29.5,52.2,17.0]],"caps":["'공유' 누르기"]},{"img":"app-safari-3","w":600,"h":404,"marks":[[4.1,76.6,92.0,19.4]],"caps":["'홈 화면에 추가' 누르기 (안 보이면 '더 보기')"]},{"img":"app-safari-4","w":600,"h":450,"marks":[[80.0,4.9,16.5,15.9]],"caps":["오른쪽 위 '추가' 누르면 끝"]}],"os":"ios"},{"key":"and-chrome","os":"android","label":"크롬","blocks":[{"img":"app-and-chrome-1","w":600,"h":358,"marks":[[88.3,1.8,8.1,16.4]],"caps":["오른쪽 위 ⋮ 누르기"]},{"img":"app-and-chrome-2","w":600,"h":585,"marks":[[30.9,39.4,63.9,10.6]],"caps":["'설치 및 바로가기 만들기' 누르기"]},{"img":"app-and-chrome-3","w":600,"h":338,"marks":[[6.0,30.4,88.1,29.6]],"caps":["'설치' 누르기"]},{"img":"app-and-chrome-4","w":600,"h":377,"marks":[[75.8,74.1,14.1,14.7]],"caps":["앱 설치 창에서 '설치' 누르기"]},{"img":"app-and-chrome-5","w":600,"h":292,"marks":[[34.1,22.7,31.4,24.4]],"caps":["'SSTC 설치 중…'이 뜨면 끝, 홈 화면에 아이콘이 생겨요"]}]},{"key":"and-samsung","os":"android","label":"삼성 인터넷(기본)","blocks":[{"img":"app-and-samsung-1","w":600,"h":377,"marks":[[79.1,3.4,7.6,12.4]],"caps":["주소창 오른쪽 ↓ 버튼 누르기"]},{"img":"app-and-samsung-2","w":600,"h":253,"marks":[[50.9,60.3,40.1,28.2]],"caps":["'추가' 누르기"]},{"img":"app-and-samsung-3","w":600,"h":221,"marks":[[16.3,42.6,67.7,35.3]],"caps":["'앱스에 추가했어요'가 뜨면 끝"]}]}]},
@@ -130,13 +134,15 @@ const HELP=[
   await p.route('**/firebase-config.js',r=>r.fulfill({body:'',contentType:'text/javascript'}));
   await p.route('**/firebase-app-compat.min.js',r=>r.fulfill({body:'window.__SEED='+JSON.stringify(seed)+';'+mock,contentType:'text/javascript'}));
   await p.route(/firebase-(database|auth)-compat\.min\.js/,r=>r.fulfill({body:'',contentType:'text/javascript'}));
+  // 푸시: 가짜 메시징(켜진 상태로 보이게)
+  await p.route(/firebase-messaging-compat\.min\.js/,r=>r.fulfill({body:'window.firebase.messaging=()=>({getToken:()=>Promise.resolve("tok-u1"),deleteToken:()=>Promise.resolve(true),onMessage(){}});',contentType:'text/javascript'}));
   if(process.env.REACT_DIR){
     await p.route('**/react.production.min.js',r=>r.fulfill({path:path.join(process.env.REACT_DIR,'react.production.min.js')}));
     await p.route('**/react-dom.production.min.js',r=>r.fulfill({path:path.join(process.env.REACT_DIR,'react-dom.production.min.js')}));
   }
   // 예시 모임 날짜(11.14 등)에 맞춰 시계를 고정해요. 안 그러면 지난 모임이 돼서 버튼이 달라져요
   await p.clock.setFixedTime(new Date(process.env.SHOT_TIME||'2026-11-13T10:00:00+09:00'));
-  await p.addInitScript(()=>{ try{ localStorage.setItem('sstc-admin-view','member'); localStorage.setItem('sstc-install-tip','never'); if(!localStorage.getItem('sstc-seen-u1')) localStorage.setItem('sstc-seen-u1',JSON.stringify({base:Date.now()-200*3600e3,t:{},i:{}})); }catch(e){} });
+  await p.addInitScript(()=>{ try{ localStorage.setItem('sstc-admin-view','member'); localStorage.setItem('sstc-install-tip','never'); localStorage.setItem('sstc-push',JSON.stringify({t:'tok-u1',uid:'u1'})); Object.defineProperty(Notification,'permission',{get:()=>'granted'}); navigator.serviceWorker.register=()=>Promise.resolve({showNotification(){}}); if(!localStorage.getItem('sstc-seen-u1')) localStorage.setItem('sstc-seen-u1',JSON.stringify({base:Date.now()-200*3600e3,t:{},i:{}})); }catch(e){} });
   await p.goto('file://'+path.join(ROOT,'index.html')); await p.waitForTimeout(2000);
   const st=p.getByText('시작하기'); if(await st.count()) await st.first().click(); await p.waitForTimeout(1500);
   const outDir=path.join(ROOT,'help'); fs.mkdirSync(outDir,{recursive:true});
